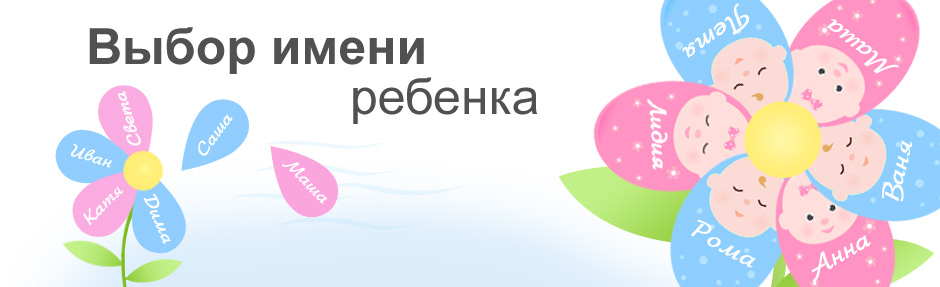
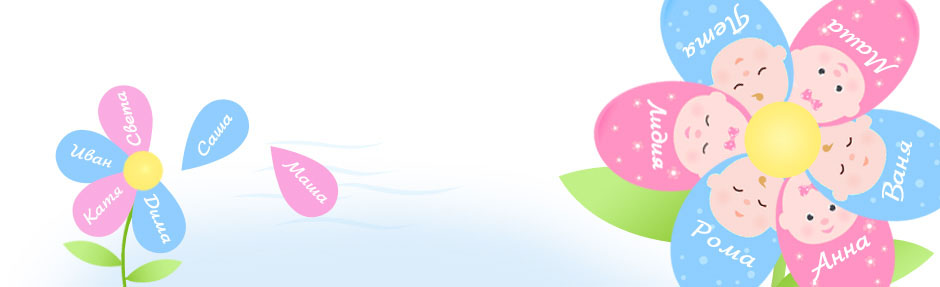
фиксы

Changed region(s): [[0.0926, 0.0836, 0.4628, 0.2509], [0.3702, 0.2509, 0.5862, 0.4181]]

diff --git a/site/frontend/www/stylesheets/global.css b/site/frontend/www/stylesheets/global.css
@@ -3190,7 +3190,7 @@ big.title ins.clr_bl {
 }
 
 #content .right_block .choice_name h1 {
-    font-size:50px;color:#505152;position:relative;left:90px;top:25px;line-height:1;
+    font-size:50px;color:#505152;position:relative;left:90px;top:25px;line-height:1;background:none;
 }
 
 #content .right_block .choice_name h1 span {
